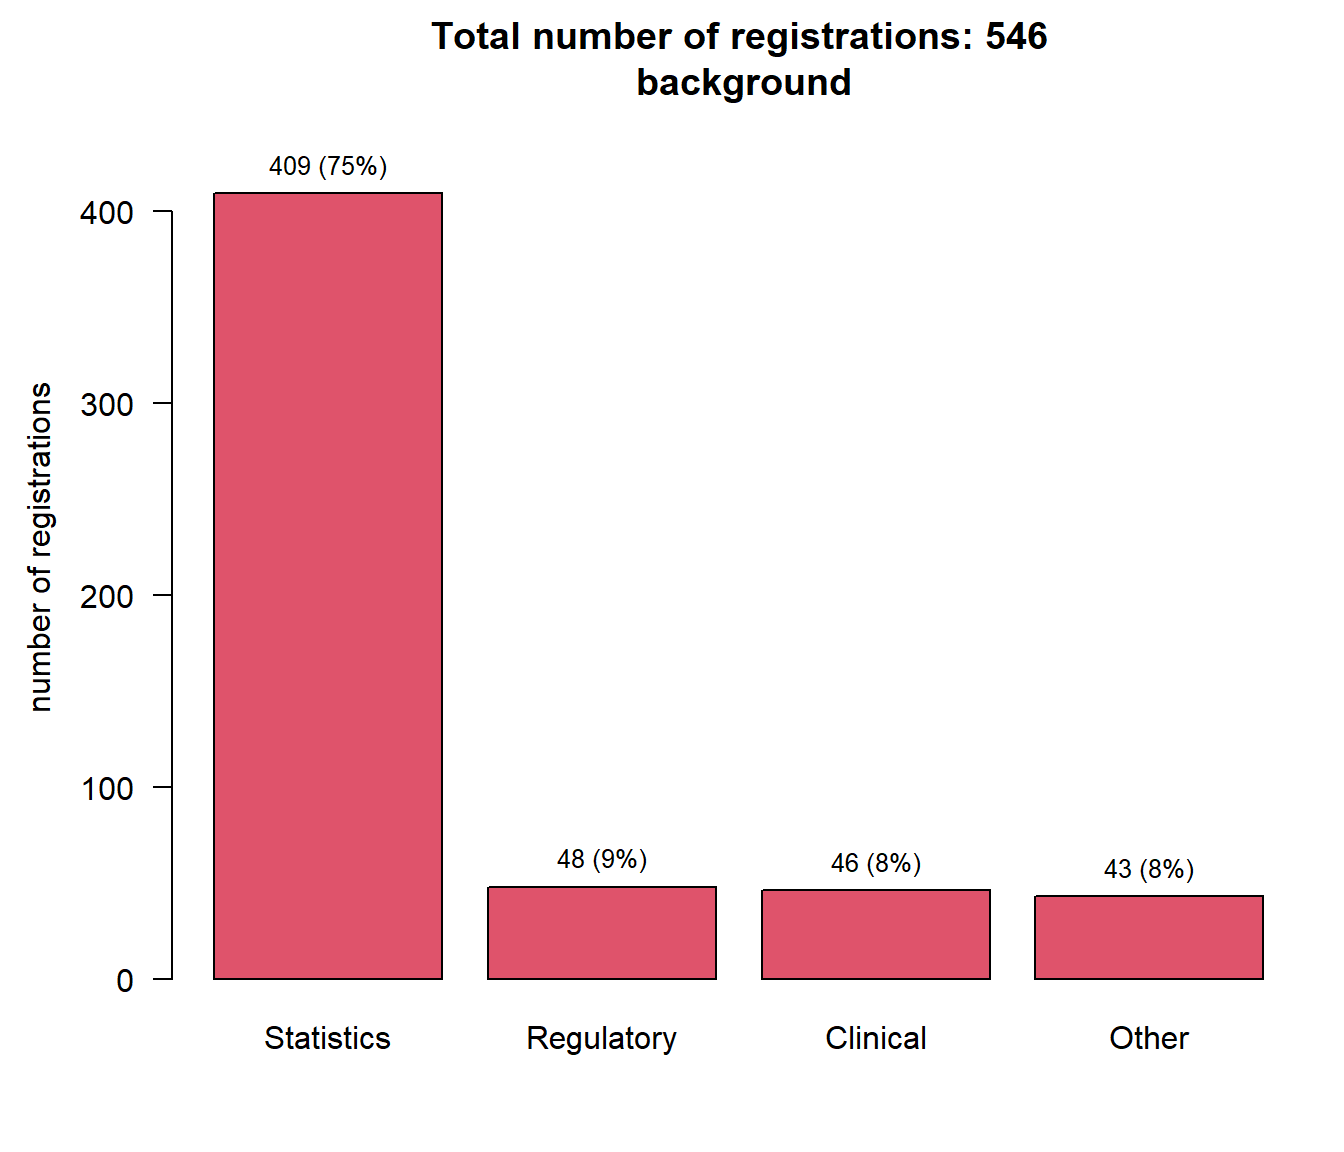
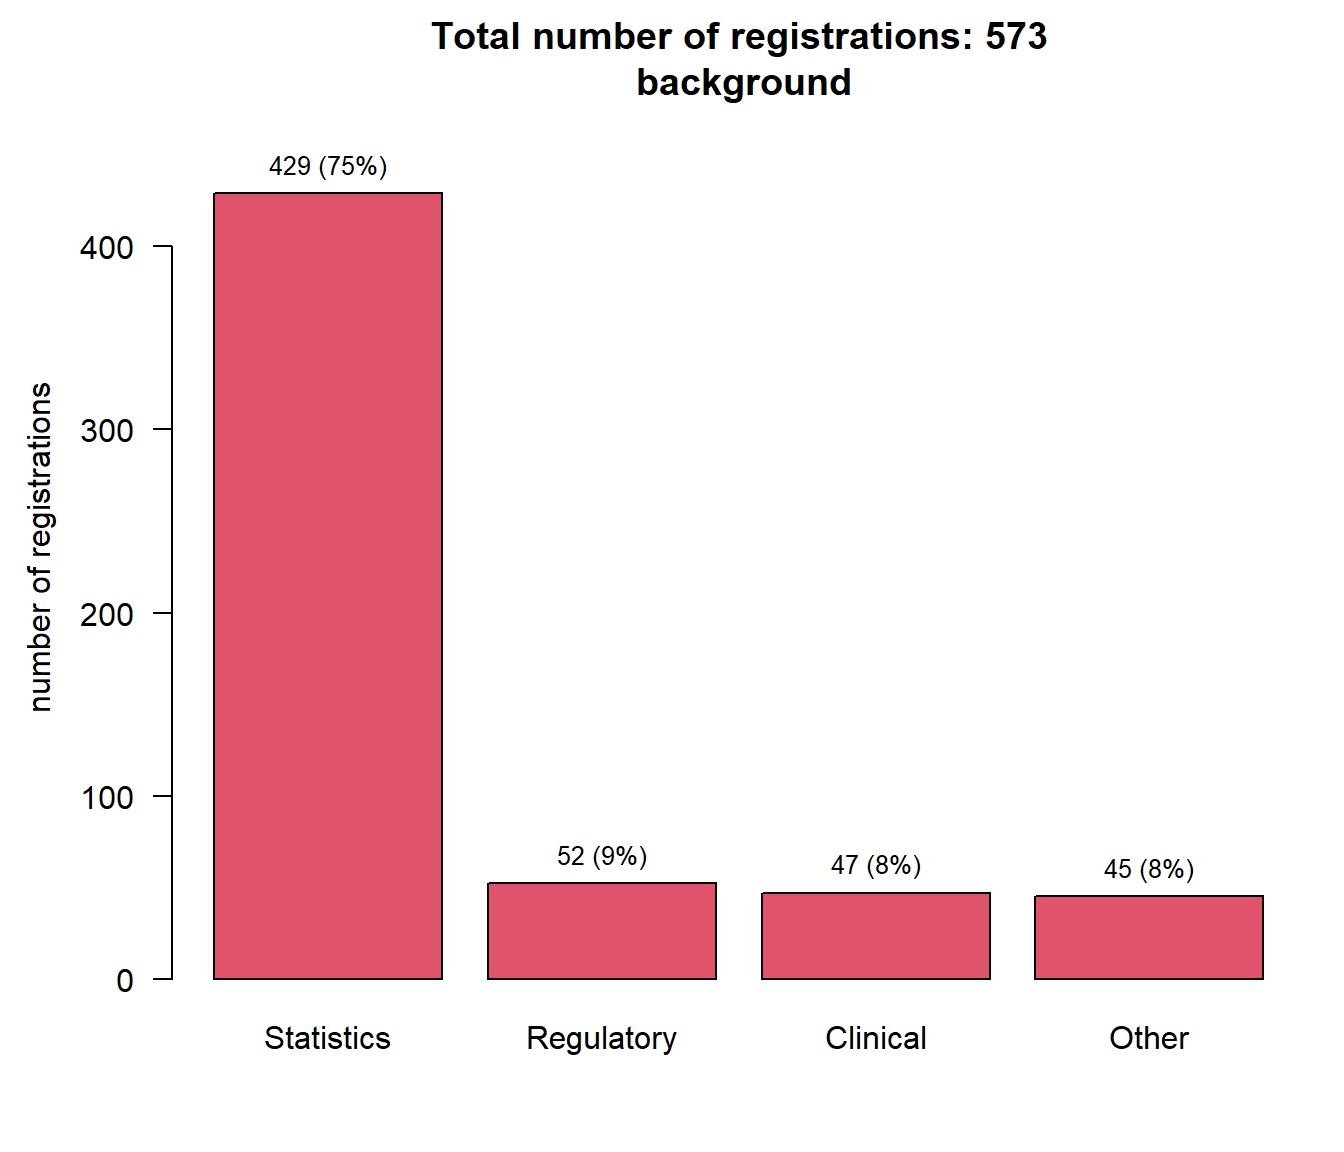
update

diff --git a/docs/data/2024/analysis2024.html b/docs/data/2024/analysis2024.html
@@ -7,7 +7,7 @@
 <meta name="viewport" content="width=device-width, initial-scale=1.0, user-scalable=yes">
 
 <meta name="author" content="Kaspar Rufibach">
-<meta name="dcterms.date" content="2024-08-20">
+<meta name="dcterms.date" content="2024-08-21">
 
 <title>EFSPI regulatory statistics workshop - EFSPI regulatory statistics workshop 2024: analysis of registrations</title>
 <style>
@@ -205,7 +205,7 @@ ul.task-list li input[type="checkbox"] {
     <div>
     <div class="quarto-title-meta-heading">Published</div>
     <div class="quarto-title-meta-contents">
-      <p class="date">August 20, 2024</p>
+      <p class="date">August 21, 2024</p>
     </div>
   </div>
   
@@ -219,7 +219,7 @@ ul.task-list li input[type="checkbox"] {
 
 <section id="data-status" class="level1">
 <h1>Data status</h1>
-<p>Data as of 2024-08-20 at 15:07:35.</p>
+<p>Data as of 2024-08-21 at 14:48:07.</p>
 </section>
 <section id="registrations-by-type-of-institution" class="level1">
 <h1>Registrations by type of institution</h1>
@@ -336,16 +336,16 @@ ul.task-list li input[type="checkbox"] {
 <col style="width: 35%">
 <col style="width: 24%">
 <col style="width: 15%">
-<col style="width: 11%">
+<col style="width: 12%">
 <col style="width: 12%">
 </colgroup>
 <thead>
 <tr class="header">
 <th style="text-align: left;"></th>
 <th style="text-align: center;">Boehringer Ingelheim (N=14)</th>
-<th style="text-align: center;">Novartis (N=208)</th>
-<th style="text-align: center;">Roche (N=99)</th>
-<th style="text-align: center;">Total (N=321)</th>
+<th style="text-align: center;">Novartis (N=213)</th>
+<th style="text-align: center;">Roche (N=100)</th>
+<th style="text-align: center;">Total (N=327)</th>
 </tr>
 </thead>
 <tbody>
@@ -359,16 +359,16 @@ ul.task-list li input[type="checkbox"] {
 <tr class="even">
 <td style="text-align: left;">&nbsp;&nbsp;&nbsp;Face-to-face (280 Euro)</td>
 <td style="text-align: center;">3 (21.4%)</td>
-<td style="text-align: center;">99 (47.6%)</td>
-<td style="text-align: center;">67 (67.7%)</td>
-<td style="text-align: center;">169 (52.6%)</td>
+<td style="text-align: center;">104 (48.8%)</td>
+<td style="text-align: center;">68 (68.0%)</td>
+<td style="text-align: center;">175 (53.5%)</td>
 </tr>
 <tr class="odd">
 <td style="text-align: left;">&nbsp;&nbsp;&nbsp;Virtual (70 Euro)</td>
 <td style="text-align: center;">11 (78.6%)</td>
-<td style="text-align: center;">109 (52.4%)</td>
-<td style="text-align: center;">32 (32.3%)</td>
-<td style="text-align: center;">152 (47.4%)</td>
+<td style="text-align: center;">109 (51.2%)</td>
+<td style="text-align: center;">32 (32.0%)</td>
+<td style="text-align: center;">152 (46.5%)</td>
 </tr>
 </tbody>
 </table>
@@ -384,8 +384,8 @@ ul.task-list li input[type="checkbox"] {
 <thead>
 <tr class="header">
 <th style="text-align: left;"></th>
-<th style="text-align: center;">Novo Nordisk (N=66)</th>
-<th style="text-align: center;">Total (N=66)</th>
+<th style="text-align: center;">Novo Nordisk (N=67)</th>
+<th style="text-align: center;">Total (N=67)</th>
 </tr>
 </thead>
 <tbody>
@@ -396,13 +396,13 @@ ul.task-list li input[type="checkbox"] {
 </tr>
 <tr class="even">
 <td style="text-align: left;">&nbsp;&nbsp;&nbsp;Face-to-face (280 Euro)</td>
-<td style="text-align: center;">6 (9.1%)</td>
-<td style="text-align: center;">6 (9.1%)</td>
+<td style="text-align: center;">6 (9.0%)</td>
+<td style="text-align: center;">6 (9.0%)</td>
 </tr>
 <tr class="odd">
 <td style="text-align: left;">&nbsp;&nbsp;&nbsp;Virtual (70 Euro)</td>
-<td style="text-align: center;">60 (90.9%)</td>
-<td style="text-align: center;">60 (90.9%)</td>
+<td style="text-align: center;">61 (91.0%)</td>
+<td style="text-align: center;">61 (91.0%)</td>
 </tr>
 </tbody>
 </table>

diff --git a/docs/dialin.html b/docs/dialin.html
@@ -228,7 +228,7 @@ ul.task-list li input[type="checkbox"] {
 <li><font color="red">Please exclusively use the link in the above email and do not join as an attendee - otherwise you will not be in the practice session prior to the TC</font>.</li>
 <li>We would appreciate if you could dial in about 20min early into the practice session, for us to check that everything works. Attendees can dial in but will not be in the webinar before we let them in. You will not need to log out from this session and can just stay in.</li>
 <li>Only panelists will have the option to turn on their camera and microphon. Attendees can only speak when we unmute them (which we do not plan for, we will invite them to ask questions through the chat).</li>
-<li>Status of registrations: Find this <a href="https://efspieurope.github.io/workshop/data/2023/analysis2023.html">here</a>. We have 546 registrations from 26 countries as of now, with 293 face-to-face. 41 colleagues from regulatory agencies registered so far.</li>
+<li>Status of registrations: Find this <a href="https://efspieurope.github.io/workshop/data/2023/analysis2023.html">here</a>. We have 573 registrations from 27 countries as of now, with 300 face-to-face. 42 colleagues from regulatory agencies registered so far.</li>
 <li>The current version of the program is <a href="data/2023/8th EFSPI RegStat Workshop program.pdf">here</a>.</li>
 </ul>
 </section>

diff --git a/docs/dialin_participants.html b/docs/dialin_participants.html
@@ -213,7 +213,7 @@ ul.task-list li input[type="checkbox"] {
 <li><font color="red">Day 1</font>: Use this <a href="https://roche.zoom.us/j/92502410017">zoom link</a> to dial in, with passcode 130923.</li>
 <li><font color="red">Day 2</font>: Use this <a href="https://roche.zoom.us/j/94065878061">zoom link</a> to dial in, with passcode 140923</li>
 <li>Attendees are invited to ask questions through zoom’s Q&amp;A functionality.</li>
-<li>Status of registrations: Find this <a href="https://efspieurope.github.io/workshop/data/2023/analysis2023.html">here</a>. We have 546 registrations from 26 countries as of now, with 293 face-to-face. 41 colleagues from regulatory agencies registered so far.</li>
+<li>Status of registrations: Find this <a href="https://efspieurope.github.io/workshop/data/2023/analysis2023.html">here</a>. We have 573 registrations from 27 countries as of now, with 300 face-to-face. 42 colleagues from regulatory agencies registered so far.</li>
 </ul>
 </section>
 <section id="face-to-face-attendance" class="level1">

diff --git a/docs/feedback.html b/docs/feedback.html
@@ -7,7 +7,7 @@
 <meta name="viewport" content="width=device-width, initial-scale=1.0, user-scalable=yes">
 
 <meta name="author" content="Kaspar Rufibach">
-<meta name="dcterms.date" content="2024-08-20">
+<meta name="dcterms.date" content="2024-08-21">
 
 <title>EFSPI regulatory statistics workshop - EFSPI regulatory statistics workshop: feedback from previous years</title>
 <style>
@@ -194,7 +194,7 @@ ul.task-list li input[type="checkbox"] {
     <div>
     <div class="quarto-title-meta-heading">Published</div>
     <div class="quarto-title-meta-contents">
-      <p class="date">August 20, 2024</p>
+      <p class="date">August 21, 2024</p>
     </div>
   </div>
   

diff --git a/docs/past_scicom.html b/docs/past_scicom.html
@@ -6,7 +6,7 @@
 
 <meta name="viewport" content="width=device-width, initial-scale=1.0, user-scalable=yes">
 
-<meta name="dcterms.date" content="2024-08-20">
+<meta name="dcterms.date" content="2024-08-21">
 
 <title>EFSPI regulatory statistics workshop - Past workshops: analysis of registrations and feedback (for restricted audience only)</title>
 <style>
@@ -186,7 +186,7 @@ ul.task-list li input[type="checkbox"] {
     <div>
     <div class="quarto-title-meta-heading">Published</div>
     <div class="quarto-title-meta-contents">
-      <p class="date">August 20, 2024</p>
+      <p class="date">August 21, 2024</p>
     </div>
   </div>
   
